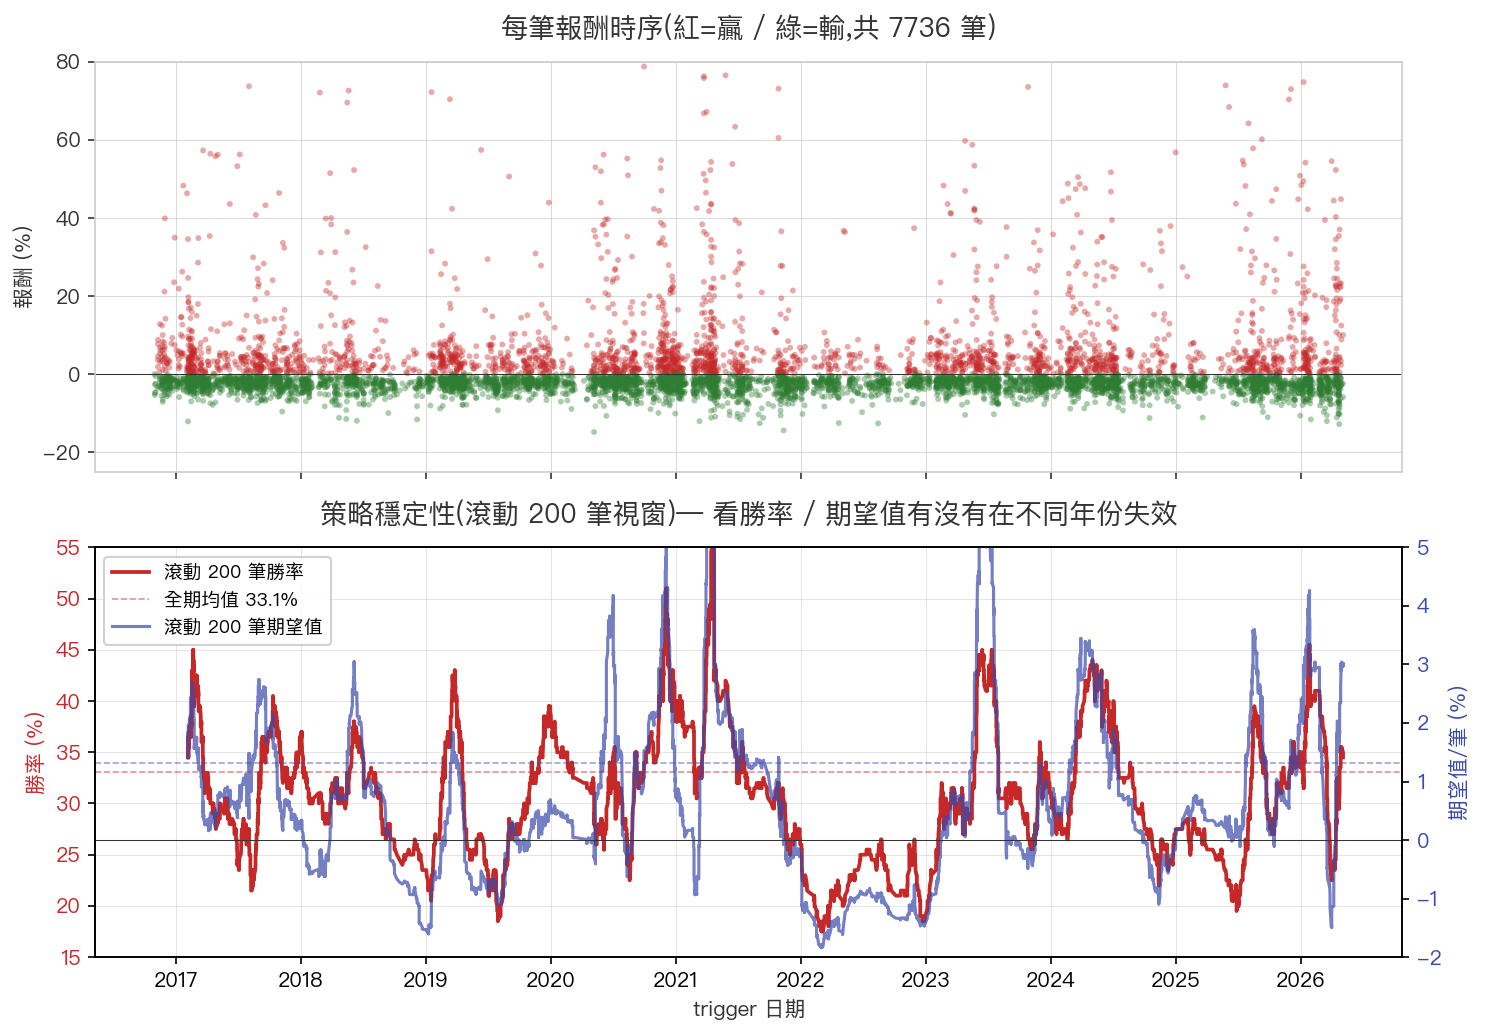
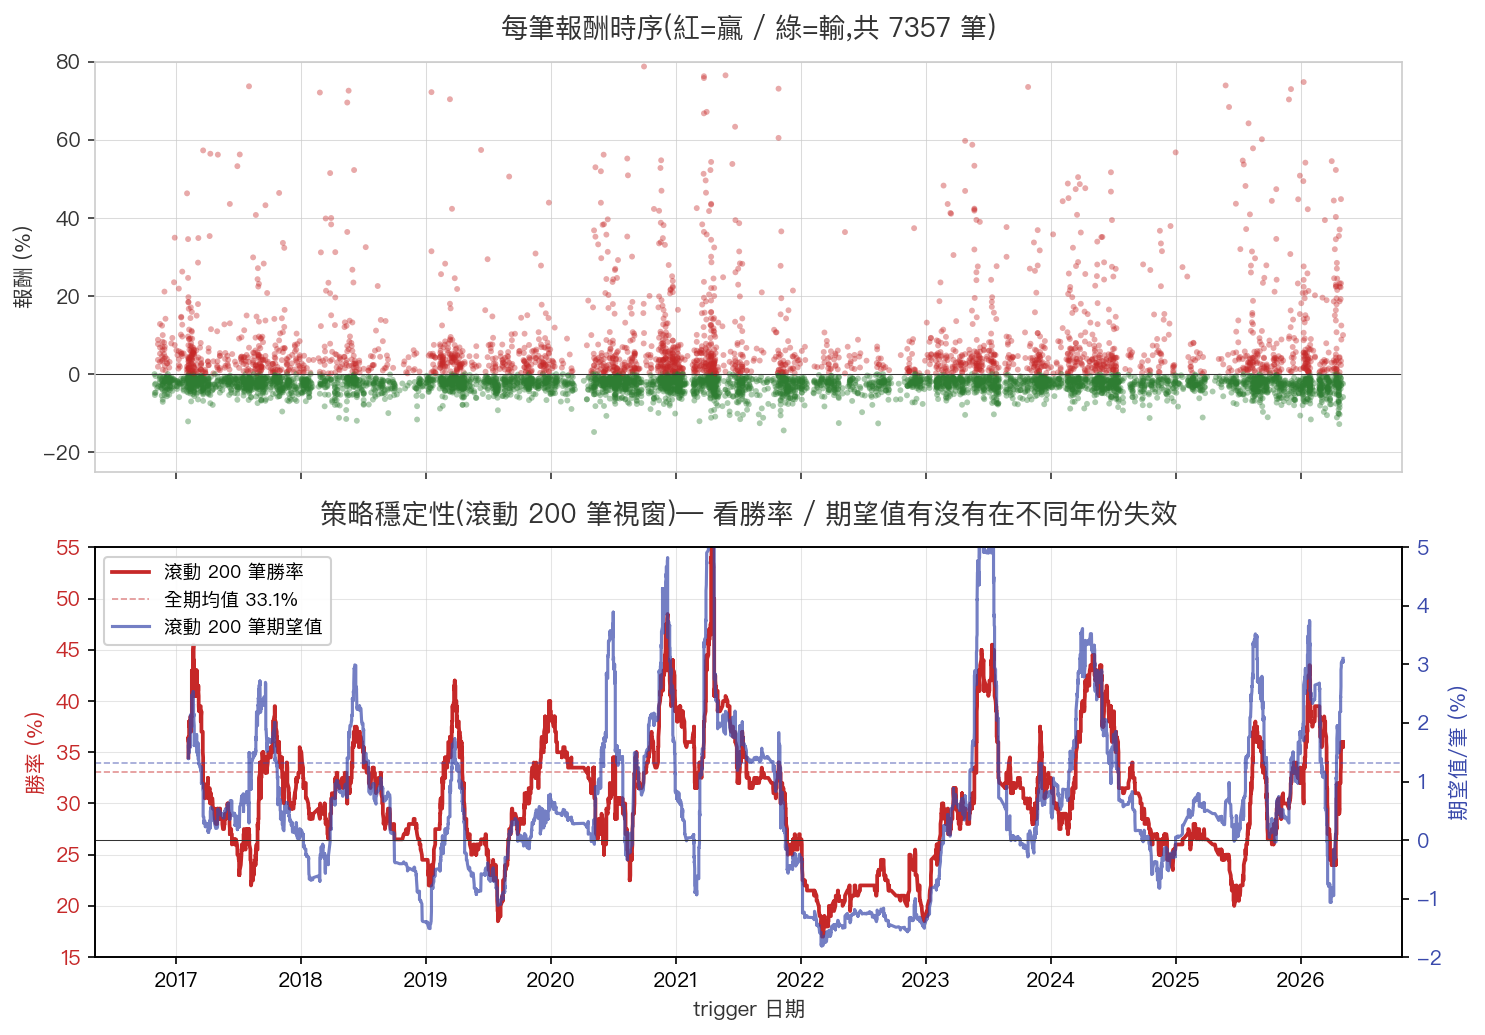
docs: sync 0 report(s) updated, 12 unchanged (2026-05-06)

diff --git a/docs/about/strategy.md b/docs/about/strategy.md
@@ -2,7 +2,7 @@
 
 **「黑飛舞」= 創高雙黑站5MA(強勢回檔)**
 
-這是一個**台股短線「強勢股回檔買點」進場策略**,經過 **9.5 年全市場、7736 筆 trigger 完整回測驗證**。
+這是一個**台股短線「強勢股回檔買點」進場策略**,經過 **9.5 年全市場、7357 筆 trigger 完整回測驗證**。
 
 ---
 
@@ -12,7 +12,7 @@
 |---|------|---------|
 | 1 | D-1 創 60 日新高 | 昨天創出近 3 個月新高 |
 | 2 | D-1 收黑 | 昨天衝高被打回(疲弱訊號) |
-| 3 | D 不創高 | 今天沒突破昨天的高點(動能繼續弱) |
+| 3 | D 不創高(嚴格 D.High < D-1.High) | 今天沒突破昨天的高點 — 觸到平也不算過關 |
 | 4 | D 收盤站上 5MA | 但短線結構未破壞 |
 | 5 | 5MA > 10MA, 20MA, 60MA, 120MA | 完整多頭排列(長期仍多頭) |
 
@@ -49,7 +49,7 @@
 
 ---
 
-## 📊 回測結果(9.5 年 / 全市場 / 7736 筆)
+## 📊 回測結果(9.5 年 / 全市場 / 7357 筆)
 
 回測期間:**2016-10-31 ~ 2026-05-04**(包含 2018 中美貿易戰 / 2020 疫情 / 2022 熊市 / 2024 AI 牛市)
 
@@ -57,16 +57,16 @@
 
 | 指標 | 數值 | 說明 |
 |------|------|------|
-| 總 trigger 數 | **7736** | 9.5 年全市場掃描(2052 檔) |
-| 已結案 | 7650 | 觀察期內未出場僅 86 筆 (1.1%) |
-| 勝率 | **32.9%** | wins=2542, losses=5194 |
-| 平均獲利 | **+9.38%** | 含尾部飆股(最大 +162%) |
+| 總 trigger 數 | **7357** | 9.5 年全市場掃描(2052 檔) |
+| 已結案 | 7279 | 觀察期內未出場僅 78 筆 (1.1%) |
+| 勝率 | **32.6%** | wins=2399, losses=4958 |
+| 平均獲利 | **+9.49%** | 含尾部飆股(最大 +162%) |
 | 平均虧損 | **-2.81%** | Stage A 緊停損保命 |
-| **每筆期望值** | **+1.19%** | 扣 0.4% 手續費後仍有 +0.79% |
+| **每筆期望值** | **+1.20%** | 扣 0.4% 手續費後仍有 +0.80% |
 | 中位數報酬 | -1.57% | 多數單筆小虧,獲利集中在右尾 |
-| 平均持有 | 6.6 天 | 短線策略 |
-| 平均 MFE | +26.25% | 進場後潛在最高漲幅 |
-| 平均 MAE | -12.88% | 「不停損」會看到的最大跌幅 — **證明停損很關鍵** |
+| 平均持有 | 6.4 天 | 短線策略 |
+| 平均 MFE | +26.53% | 進場後潛在最高漲幅 |
+| 平均 MAE | -13.00% | 「不停損」會看到的最大跌幅 — **證明停損很關鍵** |
 
 ### 每筆報酬分布
 
@@ -79,8 +79,8 @@
 
 ![出場原因分布](../assets/backtest/exit_reasons.png)
 
-> **56.9% 觸及 Stage A 停損** — 大多數 trigger 沒站穩 +5%,這是「短線回檔」的合理結果。
-> **11.9% 走到 Stage D**(漲超過 +15% 後從高點回檔 12% 出場)— 是貢獻 +9.38% 平均獲利的核心來源。
+> **57.1% 觸及 Stage A 停損** — 大多數 trigger 沒站穩 +5%,這是「短線回檔」的合理結果。
+> **12.1% 走到 Stage D**(漲超過 +15% 後從高點回檔 12% 出場)— 是貢獻 +9.49% 平均獲利的核心來源。
 
 ### 策略穩定性
 
@@ -116,7 +116,7 @@
 ## 📌 現實使用注意事項
 
 1. **回測 ≠ 實際操作**
-   真實滑價、心理因素、執行紀律都會降低勝率。期望值 +1.19% 扣手續費(~0.4%/筆)後約 **+0.79%/筆**。
+   真實滑價、心理因素、執行紀律都會降低勝率。期望值 +1.20% 扣手續費(~0.4%/筆)後約 **+0.80%/筆**。
 
 2. **熊市要空手或降部位**
    2022 熊市單年期望值轉負 — 多頭排列只是必要條件,大盤環境決定整體勝率。

diff --git a/docs/index.md b/docs/index.md
@@ -32,15 +32,15 @@
 
 ## 📡 黑飛舞短線策略
 
-「**創高雙黑站 5MA(強勢回檔)**」短線進場策略,經 **9.5 年 / 7736 筆 trigger 全市場回測**:
+「**創高雙黑站 5MA(強勢回檔)**」短線進場策略,經 **9.5 年 / 7357 筆 trigger 全市場回測**:
 
 | 指標 | 數值 |
 |------|------|
 | 樣本期間 | 2016-10-31 ~ 2026-05-04(含 2018 貿易戰 / 2020 疫情 / 2022 熊市 / 2024 AI 牛市) |
-| 勝率 | **32.9%** |
-| 平均獲利 | +9.38% |
+| 勝率 | **32.6%** |
+| 平均獲利 | +9.49% |
 | 平均虧損 | -2.81% |
-| **每筆期望值** | **+1.19%** |
+| **每筆期望值** | **+1.20%** |
 
 搭配 **四段式動態停利** — Stage A 緊停損保命 / Stage B+C 用 5MA 移動 / Stage D 飆股放大。
 
